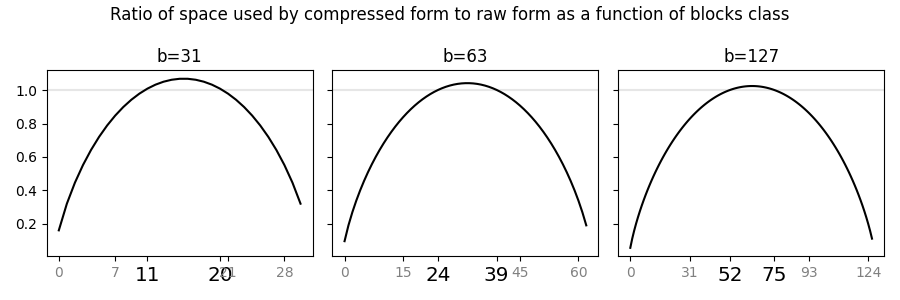
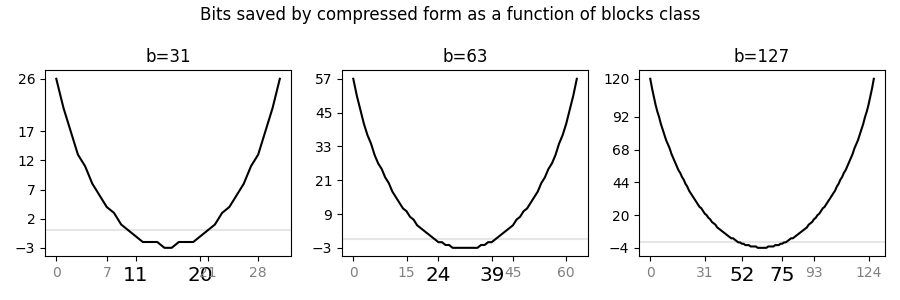
Code: changes to chapter 3 and 4

diff --git a/text/kapitola4.tex b/text/kapitola4.tex
@@ -1,39 +1,52 @@
 \chapter{Implementation and benchmarking}
 \label{kap:kap4}
 
-In this chapter, we focus on the implementation of the ideas from previous chapter
-and the results we obtained from measuring their performance. First, we describe the
-important parts and decisions in our implementation. Then, we describe how we
-benchmarked our implementation and the results we obtained.
+In this chapter, we focus on the implementation of ideas from previous chapter
+and the practical results we obtained from measuring their performance. First,
+we describe the important parts and decisions in our implementation. Then, we
+describe how we benchmarked our implementation and the results we obtained.
 
 \section{Implementation}
 
-We have decided to make our solution a part of the SDSL library~\citep{gog2014theory}. This
+We decided to make our solution a part of the \sdsl library~\citep{gog2014theory}. This
 is one of the most matured and versatile libraries implementing succinct data structures.
-SDSL is a heavily tested library offering various implementations of succinct
+\sdsl is a heavily tested library offering various implementations of succinct
 structures such as wavelet tree, FM-index, bit vectors, suffix array and many more.
 It allows to easily use different building blocks to implement more complex structures,
-i.e. using different bit vector implementations in wavelet tree. On top of this, thorough
-tests and benchmarks were devised, mainly by \cite{gog2014optimized}.
-The RRR implementations consists of templated class \texttt{rrr\_vector} that uses the on the fly-decoding
-and enables us to use any block size from 3 up to 256. SDSL also provides specialization
-of this class for block size 15 that uses the table encoding method. We thus decided to use
-this specialization as an underlying solution for the sub-blocks encoding and decoding. we further
-provided specialized implementations for block sizes 31, 63 and 127 that are mostly used in the
-practical scenarios. We based our specializations on the the general implementation of
+i.e. using different bit vector implementations inside of the wavelet tree. On top of this,
+thorough tests and benchmarks were devised, mainly by \cite{gog2014optimized}.
+The RRR implementation is provided by templated class \texttt{rrr\_vector} that uses the on the fly-decoding
+and enables us to use block size from 3 up to 256. To support these block sizes, \sdsl implements
+128 and 256 bit integers. \sdsl provides template
+specialization for block size 15 that uses the table encoding method. To support $\access$,
+\texttt{rrr\_vector} supports single bit access operator \texttt{[]} and \texttt{get\_int} method.
+To facilitate access it uses the encoding scheme presented on Fig.~\label{obr:RRRFinal} that
+consists of the array of fixed size elements that stores classes $C$, array of variable length
+elements $O$ that stores offsets corresponding to blocks and third array $P$ that stores pointers
+to the array $O$. $P$ stores pointer to the beginning of every superblock. Result of $\rank$ is
+precomputed for the beginning of every superblock so at first, binary search along these values
+is done. Then linear search for the final result is done inside of the superblock. As a select
+can be answered using the simple binary search, the first part of answering $\select$ is to
+binary search between precomputed values of $\rank$, then do the select inside of the superblock.
+This demonstrates, how the size of superblock can be used to balance the ratio of space used and the
+speed of the $\access$, $\rank$ and $\select$ methods. We however decided not to explore this dimension
+of RRR and keep the number of blocks in superblock on default value 32. 
+We decided to use the 15 bit specialization as an underlying solution for the encoding and decoding of
+sub-blocks. We provided specialized implementations for block sizes 31, 63 and 127 that are mostly used
+in the practical scenarios. We based our specializations on the general implementation of
 \texttt{rrr\_vector} and tried to keep the number of changes as small as possible. We have been able
-to only alter the two functions that the SDSL for encoding and decoding namely \texttt{bin\_to\_nr}
+to only alter the two functions that the \sdsl uses for encoding and decoding namely \texttt{bin\_to\_nr}
 and \texttt{nr\_to\_bin}. As we mentioned, the encoding is less performance critical for most of the
 applications as encoding is done only once at the beginning. This is why we focused more on the
 decoding part of the implementation.
 
 \paragraph{Division to subproblems}
 
-When implementing our decoding method, we identified the process of dividing our problem to sub-problems
-as the most critical. There are varios reasons why. The first one is that for smaller blocks 
+When implementing our decoding method, we put most of our focus on the process of dividing problem to
+sub-problems. There are varios reasons why. The first one is that for smaller blocks 
 solving the sub-problems is done using the table approach that is quite fast and can be hardly
 made faster as it consists only of one table lookup. The second one is that this part is
-inherently blocking us from solving the sub-problems. These sub-problems may be
+inherently blocking us from solving the sub-problems. These sub-problems may be potentially
 solved in parallel (either by more workers or by instruction-level parallelism), this part is
 though harder to parallelize. Dividing the problem into sub-problems consists of
 finding the pair of classes $(c_1, c_2)$ for our block $B$. After this, we need to find the number
@@ -68,6 +81,11 @@ of buckets where our offset may land is usually small, linear search outperforms
 most of the time. In practice, we found that sequential search using the \texttt{SIMD}
 instructions leads to the best results for a smaller block sizes.
 
+\paragraph{Hybrid encoding}
+
+Implementing hybrid encoding required changes to more than encoding and decoding
+subroutines. The main difference is that as long as 
+
 \section{Benchmarking}
 
 We benchmarked our code using two types of benchmarks. The first type of benchmarks used
@@ -75,7 +93,7 @@ a \texttt{Google Benchmark} library. This is one of the standard libraries used 
 microbenchmarking of code. It can reliably benchmark code as it does a lot of work
 under the hood. Code snippet that is being benchmarked is run several times until the
 library can reliably state some information about its runtime. The second type of benchmarks
-were the ones that are included in \texttt{SDSL}. These are built on top of a data from the
+were the ones that are included in \sdsl. These are built on top of a data from the
 \texttt{Pizza\&Chili} datasets \citep{ferragina2005pizza} and include many various datasets such
 as DNA sequences, \texttt{C} and \texttt{Java} source codes from \texttt{Linux} and \texttt{GCC}
 projects as well as English texts from the Gutenberg project. More information about this

diff --git a/code/experiment3/rrr_savings.py b/code/experiment3/rrr_savings.py
@@ -2,7 +2,7 @@ import json
 import re
 import matplotlib.pyplot as plt
 import numpy as np
-from math import comb, log
+from math import comb, log, ceil
 
 
 def translate(str):
@@ -20,14 +20,10 @@ def cummulative_dist_f(x, n, p):
     return sum
 
 
-def lower_bound(L, val):
-    index = next(x[0] for x in enumerate(L) if x[1] < val)
-    return index
-
-
-def upper_bound(L, val):
-    index = next(x[0] for x in enumerate(L) if x[1] > val)
-    return index
+def special_ticks(y):
+    ticks = [i for i in range(min(y), max(y), (max(y)-min(y))//5)]
+    ticks_without_close = [i for i in ticks if max(y)-i > 5]
+    return ticks_without_close + [max(y)]
 
 # plt.rcParams["figure.figsize"] = (6,3)
 
@@ -35,20 +31,22 @@ def upper_bound(L, val):
 block_sizes = [31, 63, 127]
 
 fig, axs = plt.subplots(nrows=1, ncols=len(
-    block_sizes), figsize=(9, 3), sharey=True)
+    block_sizes), figsize=(9, 3))
 fig.suptitle(
-    "Ratio of space used by compressed form to raw form as a function of blocks class")
+    "Bits saved by compressed form as a function of blocks class")
 
 for (i, block_size) in enumerate(block_sizes):
-    x = [i for i in range(block_size)]
-    y = [(log(block_size, 2)+log(comb(block_size, i), 2))/log(2**block_size, 2)
-         for i in range(block_size)]
+    x = [i for i in range(block_size+1)]
+    y = [block_size-ceil(log(block_size+1, 2))-ceil(log(comb(block_size, i), 2))
+         for i in range(block_size+1)]
 
-    axs[i].axhline(y=1.0, color='0.9', linestyle='-')
+    print(y)
+    axs[i].axhline(y=0.0, color='0.9', linestyle='-')
     axs[i].plot(x, y, color="k")
+    axs[i].set_yticks(special_ticks(y))
 
-    bad_start = upper_bound(y, 1.0)
-    bad_end = bad_start+lower_bound(y[bad_start+1:], 1.0)
+    bad_start = [i for i in range(len(y)) if y[i] < 0.0][0]
+    bad_end = [i for i in range(len(y)) if y[i] < 0.0][-1]
 
     start, end = axs[i].get_xlim()
     x_ticks = list(range(0, block_size, block_size//4))
@@ -59,14 +57,15 @@ for (i, block_size) in enumerate(block_sizes):
     axs[i].xaxis.set_ticks(x_ticks)
 
     for j in range(len(x_ticks)):
-        if y[x_ticks[j]] > 1.0:
+        if y[x_ticks[j]] < 0.0:
             axs[i].get_xticklabels()[j].set_color("k")
             axs[i].get_xticklabels()[j].set_fontsize("x-large")
         else:
             axs[i].get_xticklabels()[j].set_color("0.5")
     axs[i].set_title(translate("b=" + str(block_size)))
+    #axs[i].set_xlabel("class of block")
 
-
+#axs[0].set_ylabel("bits saved")
 fig.tight_layout()
 plt.show()
 # plt.savefig("binomial_dist.png", bbox_inches='tight')

diff --git a/text/kapitola3.tex b/text/kapitola3.tex
@@ -265,18 +265,17 @@ bit sequence $B$ of length $n$ containing $p\%$ of ones.
 	\centerline{
 		\includegraphics[width=\textwidth]{images/rrr_space_savings}
 	}
-	\caption[TODO]{Ratio of space used by the compressed
-    block representation of blocks class and offset to the space used by storing the raw
-    block. First, second and third graph represent how the ratio is dependent on the blocks
-    class for 3 different block sizes 31, 63 and 127 respectively. Black numbers on the $x$-axis
-    are denoting the start and the end of the interval where compressed version is even worse
-    in the space usage (ratio over 1).
+	\caption[TODO]{Individual graphs present for different block sizes (31, 63, 127), 
+    the space saved by using the compressed block representation. We can observe how
+    the number of saved bits is dependent on the blocks class. Black numbers on the $x$-axis
+    are denoting start and end of the interval where compressed version is worse
+    in space usage (negative space saved).
 	}
     % can be found on https://github.com/Aj0SK/master-thesis/blob/main/text/images/rrr_space_savings.png
 	\label{obr:rrrSpaceSavings}
 \end{figure}
 
-If we consider a block size $b$ then the random variable $X$ denoting number of ones in the
+If we consider a block size $b$ then the random variable $X$ denoting number of ones in
 block follows a binomial distribution $$X \sim Bin(b,p).$$ As we may observe in
 Fig.~\ref{obr:hybridEncodingDistribution}, the probability of blocks
 containing a lot of ones decreases exponentially in a sequence containing only 5\% of ones.

diff --git a/text/main-en.tex b/text/main-en.tex
@@ -27,6 +27,7 @@
 \def\Count{\mathit{Count}}
 \def\Lex{\mathit{Lex}}
 \def\prec{<}
+\def\sdsl{\texttt{SDSL} }
 
 % -------------------
 % --- Definicia zakladnych pojmov
